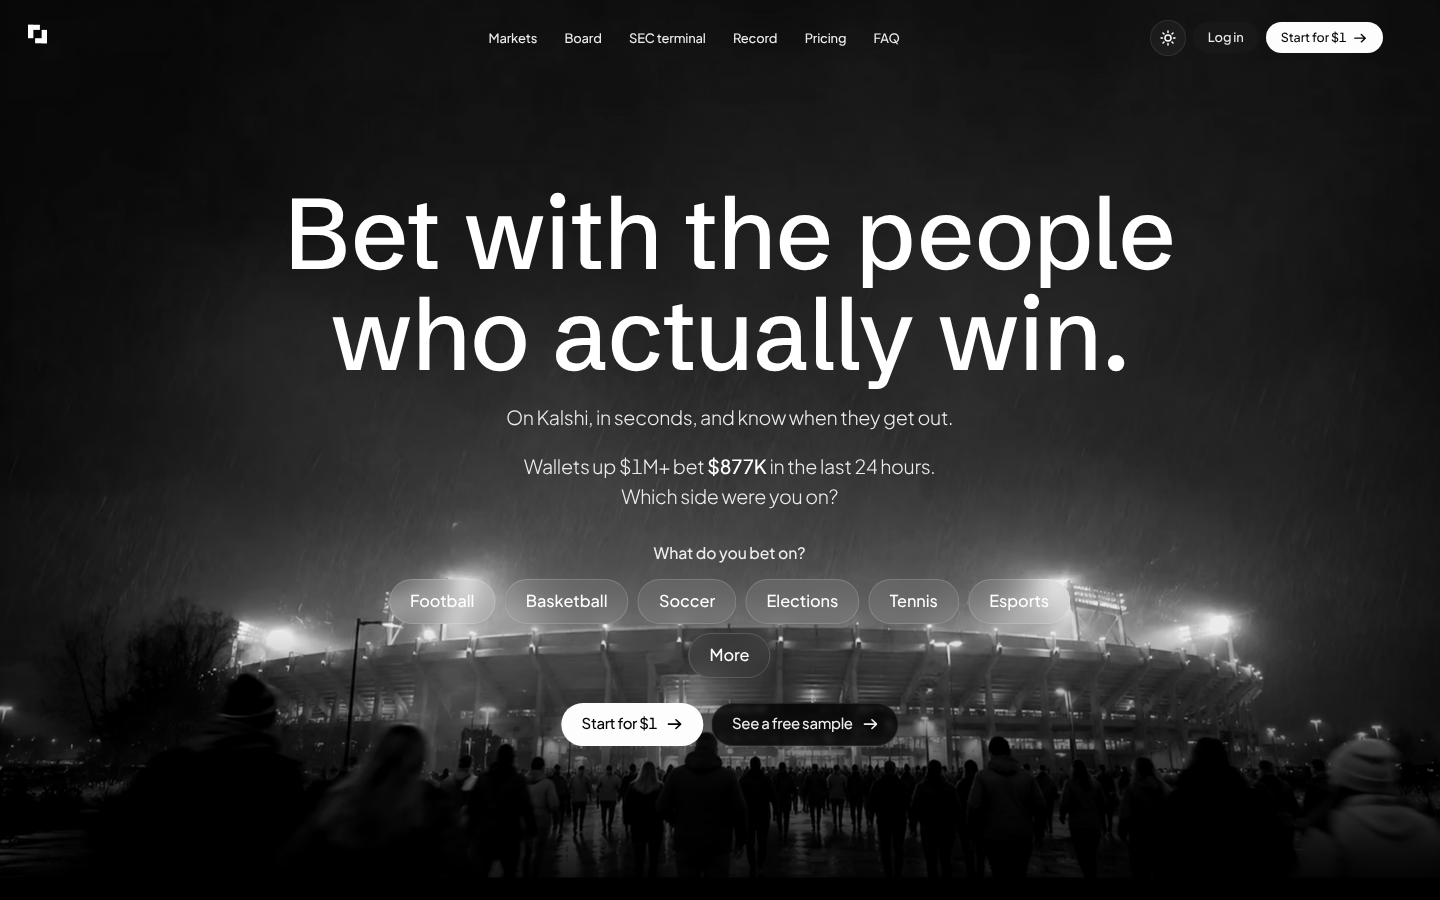
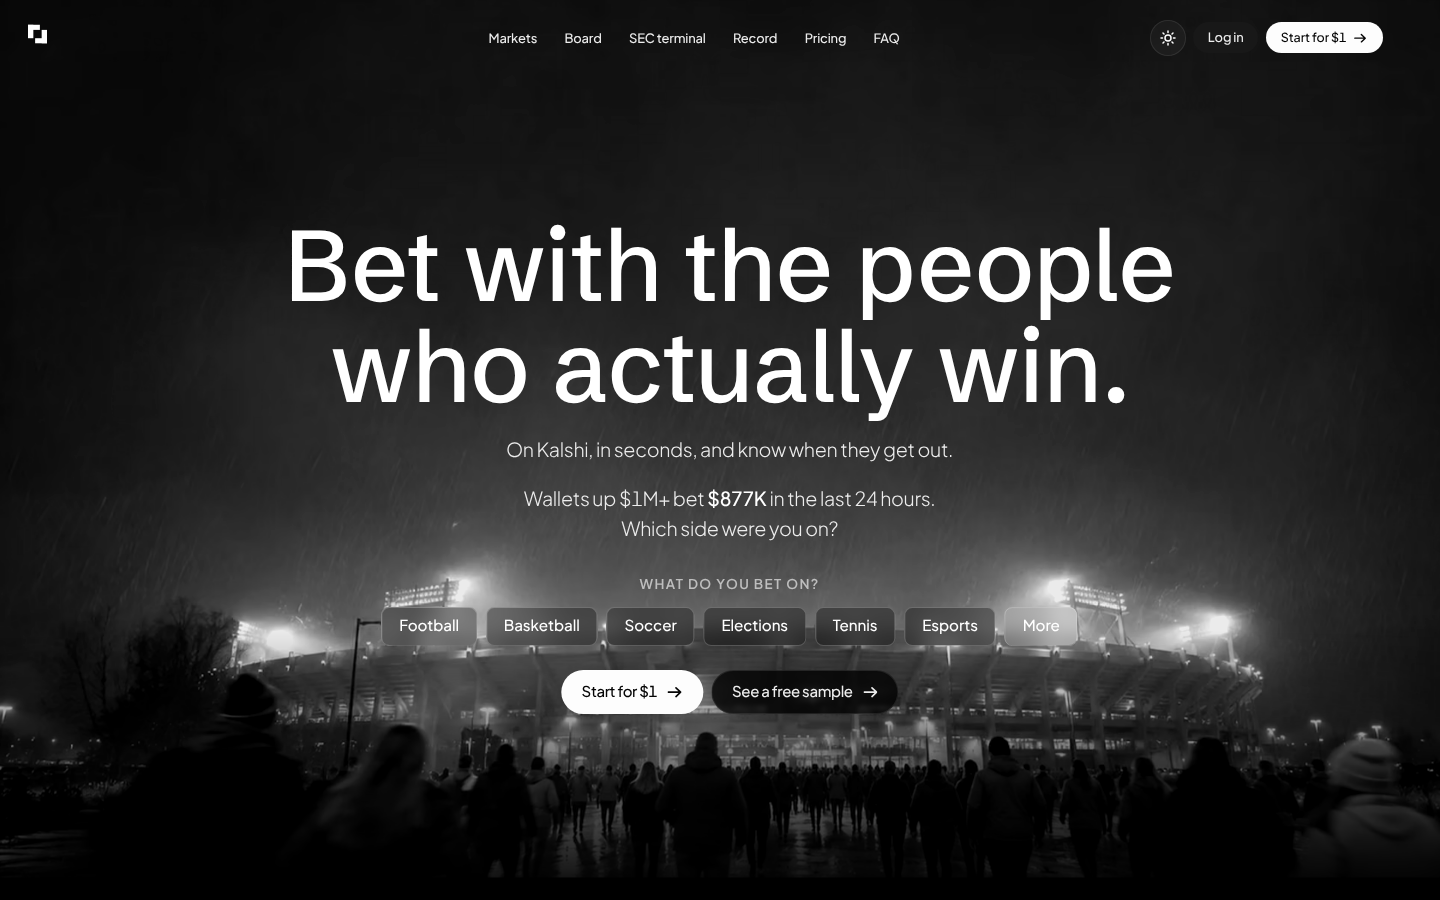
Corporate pass: landing (no strikethrough, quiet category tabs, 01/02/03 steps, no empty screens, What's inside with live AI samples, real numbers instead of empty cards) and app (legible Watch buttons, neutral stat tiles, outlined Follow and Verify buttons)
Claude-Session: https://claude.ai/code/session_013t6J84dbkTPdjdMU1vGwgF

Changed region(s): [[0.1875, 0.2178, 0.8125, 0.84]]

diff --git a/app/brand.css b/app/brand.css
@@ -1582,3 +1582,80 @@ html.intro-out .intro__bar--top { transform: translateY(-100%); } html.intro-out
 }
 html.intro-out .intro__lines, html.intro-out .intro__skip { opacity: 0; transform: scale(.98); transition: opacity .3s ease, transform .3s ease; }
 html.intro-out .intro { transition-delay: .2s; }
+
+/* ============================================================================================================
+ * Corporate pass on the landing: calm, exact, no gimmicks.
+ * ========================================================================================================== */
+/* Why Insidir: the problem as a quiet label, the answer as the line; no strikethrough. */
+.b-why__pain { text-decoration: none; color: var(--dim); font-size: calc(12 * var(--u)); font-weight: 600; letter-spacing: .08em; text-transform: uppercase; }
+.b-why__row { border-radius: 14px; }
+@media (max-width: 760px) { .b-why__pain { font-size: 11.5px; } }
+/* How it works: a hairline and a small figure, no circles. */
+.b-how__n { width: auto; height: auto; border-radius: 0; background: none; color: var(--dim); font-size: calc(13 * var(--u)); font-weight: 600; letter-spacing: .12em; display: block; }
+.b-how__n::before { content: "0"; }
+@media (max-width: 760px) { .b-how__n { width: auto; height: auto; font-size: 12px; } }
+/* The hero's quick pick: thin outlined tabs, not bubbles. */
+.b-heropick__q { color: rgba(255, 255, 255, .62); font-size: calc(12 * var(--u)); font-weight: 600; letter-spacing: .1em; text-transform: uppercase; }
+.b-heropick__chip { height: calc(34 * var(--u)); padding: 0 calc(15 * var(--u)); border-radius: 8px; background: rgba(0, 0, 0, .35); border: 1px solid rgba(255, 255, 255, .22); font-size: calc(13.5 * var(--u)); -webkit-backdrop-filter: blur(10px); backdrop-filter: blur(10px); box-shadow: none; }
+.b-heropick__chip--more { color: rgba(255, 255, 255, .7); background: transparent; }
+@media (max-width: 760px) { .b-heropick__chip { height: 34px; padding: 0 13px; font-size: 13.5px; } }
+/* No empty screens: below the hero, a stage is as tall as its content plus generous air. */
+main[data-testid="landing"] .b-stage:not([data-first]):not(.b-stage--pulse):not(.b-stage--hrow):not([data-testid="final-cta"]) { min-height: 0; padding: 0; }
+main[data-testid="landing"] .b-stage:not([data-first]):not(.b-stage--pulse):not(.b-stage--hrow):not([data-testid="final-cta"]) > .b-stage__in { padding-top: calc(104 * var(--u)); padding-bottom: calc(104 * var(--u)); }
+@media (max-width: 760px) { main[data-testid="landing"] .b-stage:not([data-first]):not([data-testid="final-cta"]) > .b-stage__in { padding-top: 64px; padding-bottom: 64px; } }
+/* Buttons: one shape, one weight, one height everywhere on the landing. */
+main[data-testid="landing"] .b-pill { border-radius: 999px; font-weight: 500; letter-spacing: -0.1px; }
+
+/* What's inside (components/brand/landing/Inside.tsx). */
+.in-grid { display: grid; grid-template-columns: repeat(3, minmax(0, 1fr)); gap: calc(16 * var(--u)); width: 100%; max-width: calc(1120 * var(--u)); margin: 0 auto; }
+.in-card { display: grid; align-content: start; gap: calc(10 * var(--u)); padding: calc(26 * var(--u)); border-radius: 16px; }
+.in-card--wide { grid-column: 1 / -1; grid-template-columns: minmax(0, .9fr) minmax(0, 1.1fr); column-gap: calc(32 * var(--u)); }
+.in-card--wide .in-k, .in-card--wide .in-h, .in-card--wide .in-t { grid-column: 1; }
+.in-card--wide .in-sample { grid-column: 2; grid-row: 1 / span 4; align-self: start; }
+.in-k { margin: 0; color: var(--dim); font-size: calc(12 * var(--u)); font-weight: 600; letter-spacing: .1em; text-transform: uppercase; }
+.in-h { margin: 0; color: var(--ink); font-size: calc(24 * var(--u)); font-weight: 600; letter-spacing: -0.02em; line-height: 1.2; }
+.in-t { margin: 0; color: var(--ink-3); font-size: calc(15 * var(--u)); line-height: 1.55; }
+.in-sample { display: grid; border: 1px solid var(--glass-line); border-radius: 12px; overflow: hidden; background: rgba(0, 0, 0, .35); }
+.in-sample__top { padding: 11px 16px; color: var(--ink); font-size: calc(13 * var(--u)); font-weight: 600; border-bottom: 1px solid var(--glass-line); }
+.in-sample__row { display: grid; grid-template-columns: 112px minmax(0, 1fr); gap: 12px; padding: 11px 16px; border-bottom: 1px solid var(--glass-line); color: var(--ink); font-size: calc(14 * var(--u)); line-height: 1.5; }
+.in-sample__row:last-child { border-bottom: 0; }
+.in-sample__row b { color: var(--dim); font-size: 11.5px; font-weight: 600; letter-spacing: .08em; text-transform: uppercase; padding-top: 3px; }
+.in-lines { display: grid; gap: 8px; margin-top: 6px; }
+.in-lines p { margin: 0; padding: 12px 14px; border: 1px solid var(--glass-line); border-radius: 10px; color: var(--ink); font-size: calc(13.5 * var(--u)); line-height: 1.45; }
+.in-lines span { display: block; margin-top: 4px; color: var(--dim); }
+.in-asks { list-style: none; margin: 6px 0 0; padding: 0; display: grid; gap: 8px; }
+.in-asks li { padding: 10px 14px; border: 1px solid var(--glass-line); border-radius: 10px; color: var(--ink); font-size: calc(13.5 * var(--u)); }
+@media (max-width: 900px) {
+  .in-grid { grid-template-columns: minmax(0, 1fr); max-width: 560px; }
+  .in-card { padding: 20px; }
+  .in-card--wide { grid-template-columns: minmax(0, 1fr); }
+  .in-card--wide .in-sample { grid-column: 1; grid-row: auto; }
+  .in-h { font-size: 20px; } .in-t, .in-sample__row, .in-lines p, .in-asks li { font-size: 14px; }
+  .in-sample__row { grid-template-columns: minmax(0, 1fr); gap: 2px; }
+}
+
+/* ============================================================================================================
+ * Corporate pass on the app: neutral stat tiles, real buttons for row actions and Follow.
+ * ========================================================================================================== */
+.b-stats--3 { display: grid; grid-template-columns: repeat(3, minmax(0, 1fr)); gap: inherit; }
+@media (max-width: 552px) { .b-stats--3 { grid-template-columns: repeat(3, minmax(0, 1fr)); } }
+.b-stat { background: linear-gradient(180deg, rgba(255, 255, 255, .04), rgba(255, 255, 255, .015)), var(--panel); border: 1px solid var(--glass-line); border-radius: 14px; }
+.b-stat__n { color: var(--ink); }
+:root[data-theme="light"] .b-stat { background: rgb(247 247 248); }
+/* Verify · Trade · Wallet: a quiet row of outlined mini buttons. */
+.b-verify { align-items: center; gap: 6px; }
+.b-verify__label { font-size: 11px; letter-spacing: .08em; text-transform: uppercase; color: var(--dim); margin-right: 2px; }
+.b-verify a { display: inline-flex; align-items: center; height: 24px; padding: 0 10px; border-radius: 6px; border: 1px solid var(--glass-line); text-decoration: none; color: var(--ink-muted); font-size: 12px; font-weight: 500; transition: border-color .15s ease, color .15s ease; }
+.b-verify a:hover { border-color: var(--ink); color: var(--ink); }
+.b-verify__at { margin-left: 4px; }
+/* Follow (and other text actions on cards): an outlined button, not floating text. */
+.s-wcard [data-testid="desk-follow"], .s-lb [data-testid="desk-follow"], table [data-testid="desk-follow"] {
+  display: inline-flex; align-items: center; justify-content: center; height: 32px; padding: 0 14px; border-radius: 10px; border: 1px solid var(--glass-line); background: transparent; color: var(--ink); font-size: 13px; font-weight: 500; text-decoration: none; cursor: pointer; transition: border-color .15s ease, background .15s ease; }
+.s-wcard [data-testid="desk-follow"]:hover, table [data-testid="desk-follow"]:hover { border-color: var(--ink); }
+.s-wcard [data-testid="desk-follow"][aria-pressed="true"], table [data-testid="desk-follow"][aria-pressed="true"] { background: var(--ink); color: var(--btn-ink, #050505); border-color: var(--ink); }
+.s-wcard [data-testid="desk-follow"] { justify-self: start; margin-top: 4px; }
+.fr-nums { margin: 0; display: grid; gap: 14px; }
+.fr-nums div { display: grid; gap: 2px; padding-bottom: 12px; border-bottom: 1px solid var(--glass-line); }
+.fr-nums div:last-child { border-bottom: 0; padding-bottom: 0; }
+.fr-nums dd { margin: 0; color: var(--ink); font-size: 28px; font-weight: 600; letter-spacing: -0.03em; line-height: 1.1; }
+.fr-nums dt { color: var(--dim); font-size: 13px; }

diff --git a/components/brand/landing/Inside.tsx b/components/brand/landing/Inside.tsx
@@ -1,0 +1,76 @@
+/* The landing's "What's inside": the four AI tools members use, each shown with its real output from today's data, as a
+ * visitor may see it (side-neutral, lib/briefing/gate.ts; the brief's visitor lines are 60 minutes late and carry no
+ * side). A card with nothing real to show describes the tool only. Information, not advice. Server only. */
+import type { CSSProperties } from "react";
+import { getDb, hasDatabase } from "@/lib/db";
+import { getBriefing } from "@/lib/briefing/store";
+import { gateBriefing } from "@/lib/briefing/gate";
+import { buildBrief } from "@/lib/brief/build";
+import type { LandingData } from "@/lib/brand/landing";
+import { Lines, m } from "../Bits";
+import { Stage } from "../Stage";
+
+const within = <T,>(p: Promise<T>, ms: number, d: T): Promise<T> => Promise.race([p.catch(() => d), new Promise<T>(r => setTimeout(() => r(d), ms))]);
+const KEYS: Record<string, string> = { rules: "Wins if", cost: "Costs and pays", read: "The read" };
+const ASKS = ["Who's the best NFL wallet this month?", "Is anyone big against my bet?", "Why did the odds move?"];
+
+async function sample(d: LandingData) {
+  if (!hasDatabase()) return { briefing: null, brief: [] as string[][] };
+  const db = getDb();
+  const ids = [d.topBet, ...d.lead].filter((b): b is NonNullable<typeof b> => !!b && b.result === null).map(b => b.marketId);
+  const briefing = await within((async () => {
+    for (const id of [...new Set(ids)].slice(0, 3)) {
+      const b = await getBriefing(db, id, d.now).catch(() => null);
+      if (!b || b.result) continue;
+      const g = gateBriefing(b, false);
+      const lines = g.sections.filter(s => KEYS[s.key] && s.lines[0]).map(s => ({ k: KEYS[s.key]!, t: s.lines[0]! }));
+      if (lines.length) return { title: b.title, lines };
+    }
+    return null;
+  })(), 5000, null);
+  const brief = await within(buildBrief(db, d.now, { member: false, useModel: false }).then(b => b.items.slice(0, 2).map(i => [...i.lines])), 3000, [] as string[][]);
+  return { briefing, brief };
+}
+
+export async function InsideStage({ d }: { d: LandingData }) {
+  const s = await sample(d);
+  const card = (i: number) => ({ "--d": `${0.45 + i * 0.08}s` }) as CSSProperties;
+  return (
+    <Stage testid="inside" labelledBy="inside-h" className="b-stage--inside">
+      <div className="b-head">
+        <Lines id="inside-h" lines={["What's inside."]} size={64} />
+        <p className="b-sub" {...m("lift", 0.4)}>Four tools that read the $1M+ money for you, written from our data only, with every number verified against it.</p>
+      </div>
+      <div className="in-grid" data-testid="inside-tools">
+        <article className="b-glass in-card in-card--wide" data-m="settle" style={card(0)}>
+          <p className="in-k">Bet Briefing</p>
+          <h3 className="in-h">Before you bet, know what you&apos;re betting on.</h3>
+          <p className="in-t">Paste any Polymarket or Kalshi link: what it needs to win, what it costs and pays, who&apos;s on each side and how they&apos;re playing it.</p>
+          {s.briefing ? (
+            <div className="in-sample">
+              <span className="in-sample__top">Live sample · {s.briefing.title}</span>
+              {s.briefing.lines.map(l => <span key={l.k} className="in-sample__row"><b>{l.k}</b><span>{l.t}</span></span>)}
+            </div>
+          ) : null}
+        </article>
+        <article className="b-glass in-card" data-m="settle" style={card(1)}>
+          <p className="in-k">Daily Brief</p>
+          <h3 className="in-h">What the big money did overnight.</h3>
+          <p className="in-t">The five biggest moves by 8 AM, two lines each, and what changed on your bets.</p>
+          {s.brief.length ? <div className="in-lines">{s.brief.map((l, i) => <p key={i}>{l[0]}<span>{l[1]}</span></p>)}</div> : null}
+        </article>
+        <article className="b-glass in-card" data-m="settle" style={card(2)}>
+          <p className="in-k">Watch my bet</p>
+          <h3 className="in-h">An alert when it matters to you.</h3>
+          <p className="in-t">Add your position. When a $1M+ wallet takes the other side, one on your side gets out, or the price moves 5¢, you hear it, with what it means in dollars.</p>
+        </article>
+        <article className="b-glass in-card" data-m="settle" style={card(3)}>
+          <p className="in-k">Ask Insidir</p>
+          <h3 className="in-h">Ask it anything about the money.</h3>
+          <p className="in-t">Answers come only from our data, with the rows behind them. If we don&apos;t have it, it says so.</p>
+          <ul className="in-asks">{ASKS.map(q => <li key={q}>{q}</li>)}</ul>
+        </article>
+      </div>
+    </Stage>
+  );
+}

diff --git a/components/brand/landing/Landing.tsx b/components/brand/landing/Landing.tsx
@@ -27,6 +27,7 @@ import { dollars as usd } from "@/lib/money";
 import { StickyStart } from "./StickyStart";
 import { RaceRow } from "./ElectionLive";
 import { HowStage, WatchStage, WhyStage } from "./Why";
+import { InsideStage } from "./Inside";
 import { ElectionStage } from "./Value";
 
 function Hero({ d }: { d: Pick<LandingData, "pulse"> }) {
@@ -67,7 +68,7 @@ function Free({ d }: { d: LandingData }) {
               <ul className="b-rows"><li data-free="bet" style={{ cursor: "pointer" }}><BetRow bet={t} now={d.now} /></li></ul>
               <p className="b-small">The biggest single bet since midnight ET from a wallet up $1M+, side and price included. Information, not advice.</p>
             </div>
-          ) : <p className="b-empty">No millionaire bet since midnight ET yet.</p>}
+          ) : <p className="b-empty">Today&apos;s biggest bet shows here once a $1M+ wallet bets after midnight ET. Until then, the board beside it has the latest.</p>}
         </section>
         <section className="b-glass b-pad b-tile3" data-testid="free-late" data-m="settle" style={{ "--d": ".72s" } as CSSProperties}>
           <h3 className="b-panel-h">The board, 60 minutes late</h3>
@@ -80,13 +81,19 @@ function Free({ d }: { d: LandingData }) {
           <a className="b-btn b-panel-pill" style={{ justifySelf: "start", marginTop: 12 }} href="/board">The board</a>
         </section>
         <section className="b-glass b-pad b-tile3" data-testid="free-race" data-m="settle" style={{ "--d": ".84s" } as CSSProperties}>
-          <h3 className="b-panel-h">One race in full</h3>
+          <h3 className="b-panel-h">{d.race ? "One race in full" : "Today in numbers"}</h3>
           {d.race ? (
             <>
               <ul className="b-rows"><RaceRow r={d.race} /></ul>
               <p className="b-small" style={{ marginTop: 12 }}>The race with the most watchlist money this week, whole: every side and the price now.</p>
             </>
-          ) : <p className="b-empty">No race has watchlist money this week.</p>}
+          ) : (
+            <dl className="fr-nums" data-testid="free-numbers">
+              {d.pulse.today > 0 ? <div><dd className="b-num">{usd(d.pulse.today)}</dd><dt>bet by wallets up $1M+ in 24 hours</dt></div> : null}
+              {d.pulse.countToday > 0 ? <div><dd className="b-num">{d.pulse.countToday.toLocaleString("en-US")}</dd><dt>millionaire bets since midnight ET</dt></div> : null}
+              {d.pulse.millionaires > 0 ? <div><dd className="b-num">{d.pulse.millionaires.toLocaleString("en-US")}</dd><dt>wallets up $1M+ watched</dt></div> : null}
+            </dl>
+          )}
           <a className="b-btn b-panel-pill" style={{ justifySelf: "start", marginTop: 12 }} href="/election">Every race</a>
         </section>
       </div>
@@ -154,6 +161,7 @@ function Rest({ d }: { d: LandingData }) {
       {d.election ? <ElectionStage d={d} /> : null}
       <WhyStage />
       <HowStage />
+      <InsideStage d={d} />
       <WatchStage />
       <Free d={d} />
       <Proof d={d} />

diff --git a/app/wallets/page.tsx b/app/wallets/page.tsx
@@ -43,9 +43,9 @@ export default async function Wallets() {
           <p className="b-sub">Every Polymarket wallet up $1M+ all-time that Insidir watches: its record, what it&apos;s betting now, and a ping when it bets again. {PAST}</p>
         </div>
         {s ? (
-          <div className="b-stats b-stats--4" data-testid="wallets-stats">
+          <div className={`b-stats ${s.proven > 0 ? "b-stats--4" : "b-stats--3"}`} data-testid="wallets-stats">
             <div className="b-stat"><span className="b-stat__n b-num">{s.wallets}</span><span className="b-small">wallets up $1M+ watched</span></div>
-            <div className="b-stat"><span className="b-stat__n b-num">{s.proven}</span><span className="b-small">proven: 30+ settled, real pickers</span></div>
+            {s.proven > 0 ? <div className="b-stat"><span className="b-stat__n b-num">{s.proven}</span><span className="b-small">proven: 30+ settled, real pickers</span></div> : null}
             <div className="b-stat"><span className="b-stat__n b-num">{s.activeToday}</span><span className="b-small">bet in the last 24 hours</span></div>
             <div className="b-stat"><span className="b-stat__n b-num">{dollars(s.weekMoney)}</span><span className="b-small">bet by millionaires this week</span></div>
           </div>

diff --git a/app/watch.css b/app/watch.css
@@ -38,3 +38,7 @@
   .w-told__row { grid-template-columns: 1fr auto; gap: 6px 12px; }
   .w-told__when { grid-column: 1 / -1; }
 }
+/* Always legible: white on black in the dark theme, black on white in the light one. */
+.w-btn, .b-root .w-btn, .b-app .w-btn { background: rgb(255 255 255); color: rgb(0 0 0) !important; }
+:root[data-theme="light"] .w-btn, :root[data-theme="light"] .b-root .w-btn { background: rgb(11 11 18); color: rgb(255 255 255) !important; }
+.w-btn:hover { opacity: .88; }
